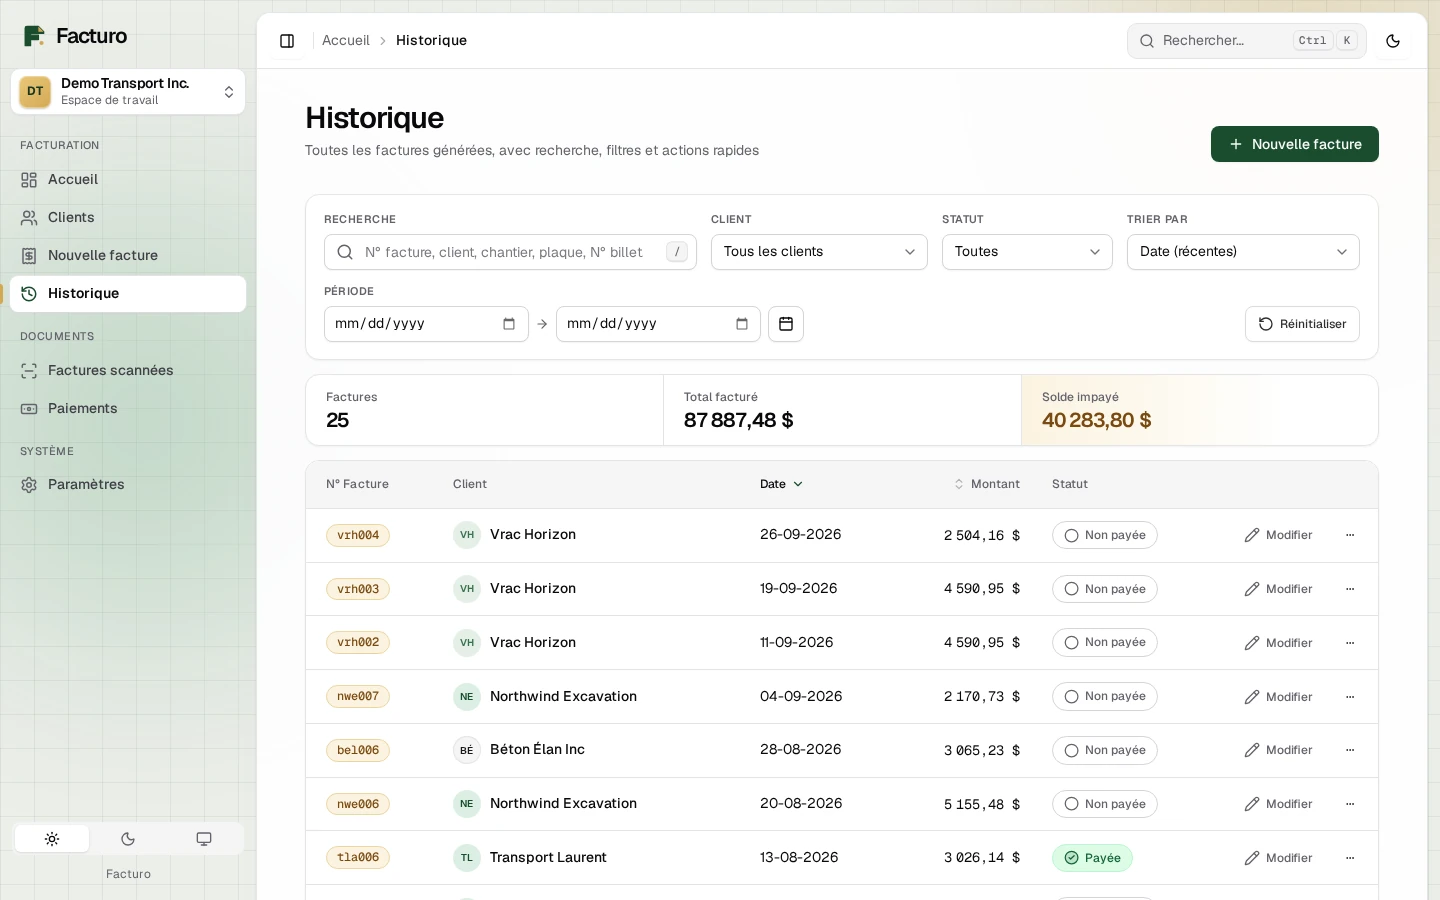
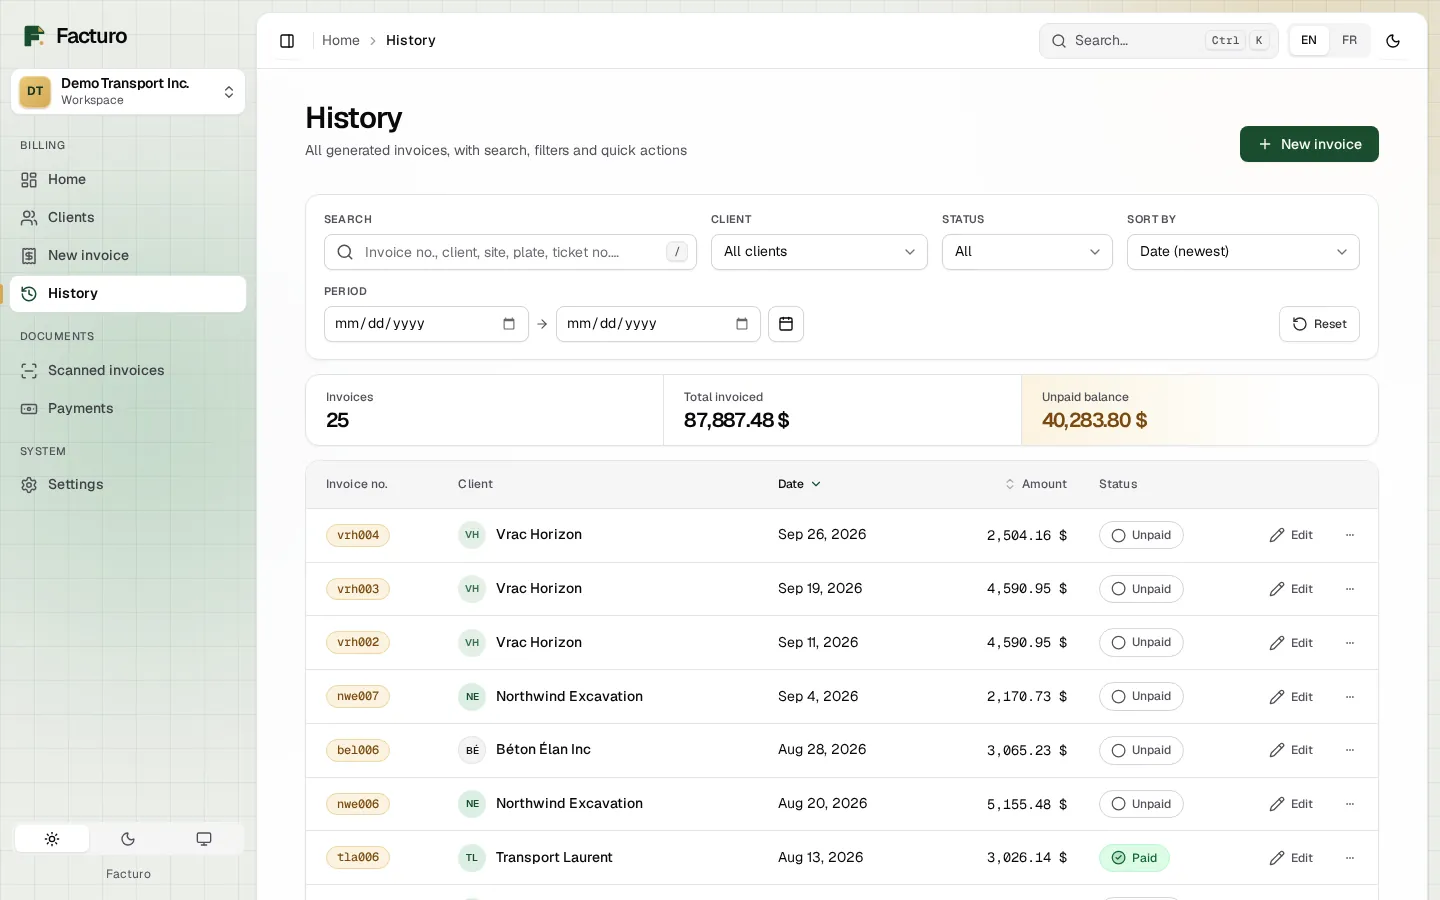
docs: English screenshots and a script to regenerate them
The README screenshots were the French UI; the app now opens in English.
scripts/screenshots.py starts an isolated seeded server and captures the
same ten views in either language (--lang en or fr).

diff --git a/scripts/screenshots.py b/scripts/screenshots.py
@@ -1,0 +1,122 @@
+#!/usr/bin/env python3
+"""Regenerate the README screenshots in docs/screenshots/.
+
+Usage:
+
+    python scripts/screenshots.py            # English (the app's default)
+    python scripts/screenshots.py --lang fr  # French
+
+Starts the real app on a free port against a throwaway data directory, fills it
+with scripts/seed_demo.py, then drives Chromium through ten views and saves
+each as a WebP. Needs the dev requirements plus `playwright install chromium`
+and Pillow. Nothing outside the temp directory and docs/screenshots/ is touched.
+"""
+
+from __future__ import annotations
+
+import argparse
+import io
+import os
+import socket
+import subprocess
+import sys
+import tempfile
+import time
+import urllib.request
+from pathlib import Path
+
+ROOT = Path(__file__).resolve().parent.parent
+OUT = ROOT / "docs" / "screenshots"
+DESKTOP = {"width": 1440, "height": 900}
+MOBILE = {"width": 390, "height": 844}
+SETTLE_MS = 1400  # count-up numbers and chart entrance animations
+WEBP_QUALITY = 80
+
+
+def free_port() -> int:
+    with socket.socket() as s:
+        s.bind(("127.0.0.1", 0))
+        return s.getsockname()[1]
+
+
+def start_server(data_dir: Path) -> tuple[subprocess.Popen, str]:
+    port = free_port()
+    env = {**os.environ, "FACTURO_DATA_DIR": str(data_dir)}
+    proc = subprocess.Popen(
+        [sys.executable, "-m", "uvicorn", "facturo.server:app", "--port", str(port)],
+        cwd=ROOT, env=env, stdout=subprocess.DEVNULL, stderr=subprocess.PIPE,
+    )
+    base = f"http://127.0.0.1:{port}"
+    for _ in range(80):
+        try:
+            urllib.request.urlopen(base + "/api/clients", timeout=1)
+            return proc, base
+        except OSError:
+            time.sleep(0.25)
+    proc.kill()
+    raise RuntimeError(proc.stderr.read().decode())
+
+
+def save_webp(png: bytes, name: str) -> None:
+    from PIL import Image
+
+    OUT.mkdir(parents=True, exist_ok=True)
+    Image.open(io.BytesIO(png)).convert("RGB").save(OUT / name, "WEBP", quality=WEBP_QUALITY, method=6)
+    print("saved", name)
+
+
+def capture(base: str, lang: str) -> None:
+    from playwright.sync_api import sync_playwright
+
+    init = (f"try {{ localStorage.setItem('facturo-lang', '{lang}'); "
+            f"localStorage.setItem('facturo-theme', 'light'); }} catch (e) {{}}")
+    with sync_playwright() as p:
+        browser = p.chromium.launch()
+
+        def shot(name: str, viewport=DESKTOP, script: str | None = None, act=None) -> None:
+            ctx = browser.new_context(viewport=viewport, reduced_motion="no-preference")
+            ctx.add_init_script(init)
+            page = ctx.new_page()
+            page.goto(base)
+            page.wait_for_selector(".page")
+            if script:
+                page.evaluate(script)
+                page.wait_for_selector(".page")
+            page.wait_for_timeout(SETTLE_MS)
+            if act:
+                act(page)
+                page.wait_for_timeout(500)
+            save_webp(page.screenshot(), name)
+            ctx.close()
+
+        shot("01-accueil.webp")
+        shot("02-historique.webp", script="navigate('history')")
+        shot("03-nouvelle-facture.webp", script="newFacture()")
+        shot("04-paiements.webp", script="openPayments()")
+        shot("05-parametres.webp", script="navigate('settings')")
+        shot("06-palette.webp", act=lambda pg: pg.keyboard.press("Control+k"))
+        shot("07-accueil-sombre.webp", act=lambda pg: pg.evaluate("ui.theme.setPreference('dark')"))
+        shot("08-menu-reduit.webp", act=lambda pg: pg.click("#sidebar-toggle"))
+        shot("09-mobile.webp", viewport=MOBILE)
+        shot("10-clients.webp", script="navigate('clients')")
+        browser.close()
+
+
+def main() -> None:
+    parser = argparse.ArgumentParser(description=__doc__.split("\n")[0])
+    parser.add_argument("--lang", choices=("en", "fr"), default="en")
+    args = parser.parse_args()
+
+    with tempfile.TemporaryDirectory(prefix="facturo-shots-") as tmp:
+        proc, base = start_server(Path(tmp))
+        try:
+            subprocess.run([sys.executable, str(ROOT / "scripts" / "seed_demo.py"), "--base", base],
+                           check=True, stdout=subprocess.DEVNULL)
+            capture(base, args.lang)
+        finally:
+            proc.terminate()
+            proc.wait(timeout=10)
+
+
+if __name__ == "__main__":
+    main()
